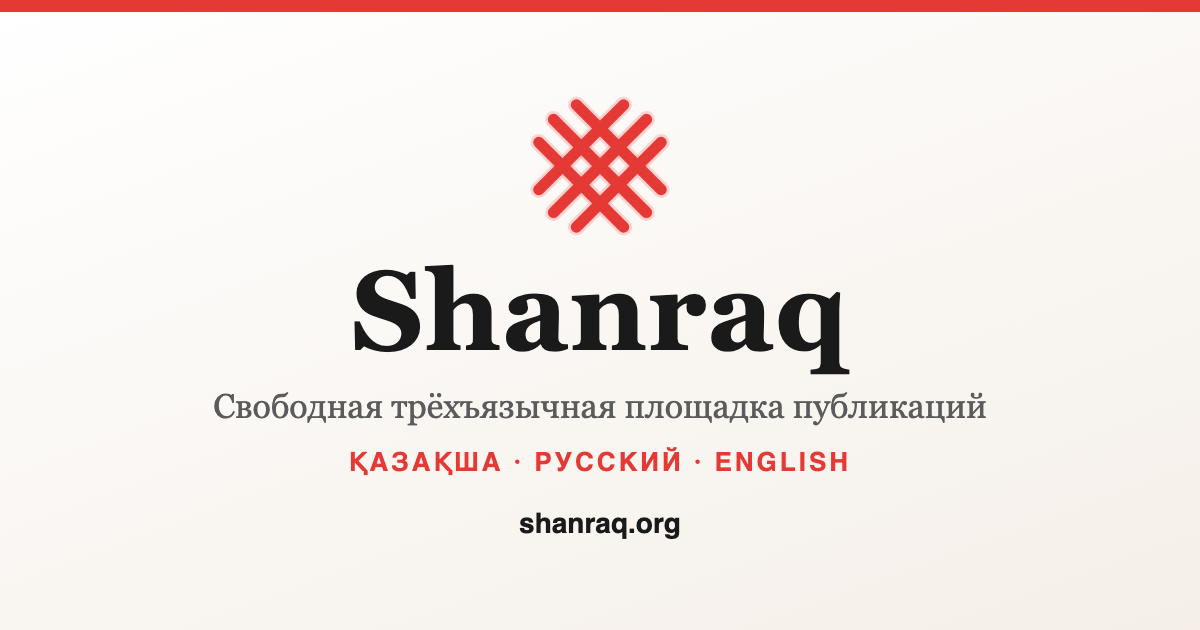
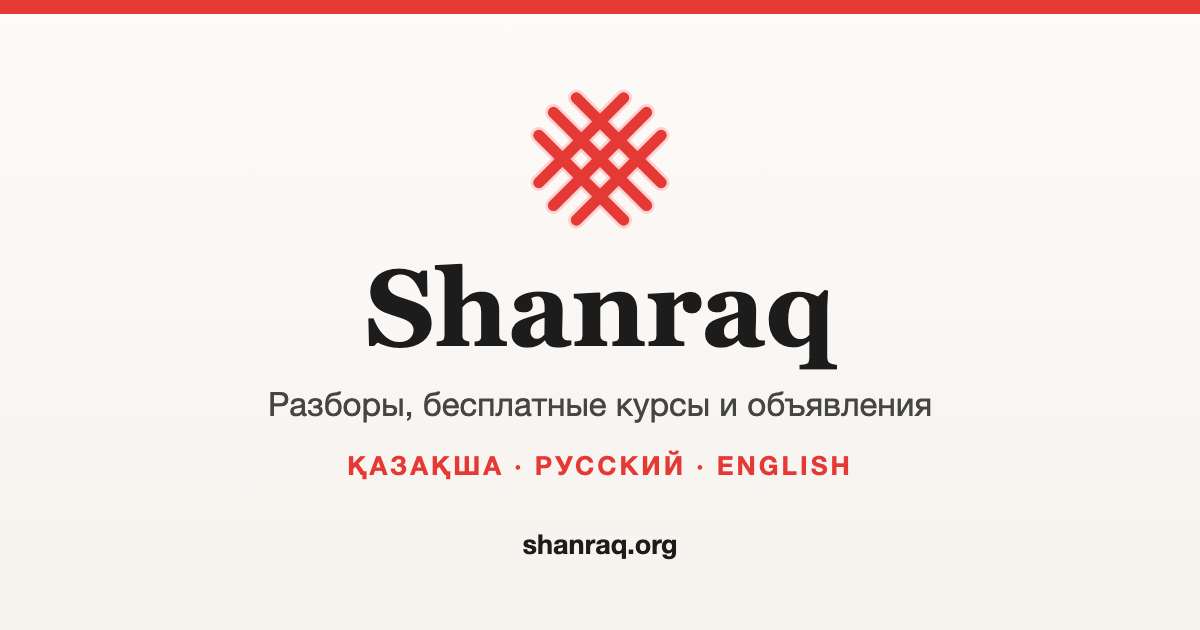
Give the social card the same sentence as the site, and a source
The picture Telegram and LinkedIn show for a shared link still called the site
"a trilingual publishing platform" — the tagline it was given a year ago, before
the courses existed. It had no source file, so nobody could edit it: the card
was a PNG somebody rendered once.

The page it is rendered from now lives in tools/brand/og-cover.html with the
command in a comment, and the card says what the home page says.

diff --git a/tools/brand/og-cover.html b/tools/brand/og-cover.html
@@ -1,0 +1,62 @@
+<!-- The social card: what Telegram, Facebook and LinkedIn show when a link to
+     the site is shared. It is a PNG because none of them render SVG, and it
+     lived for a year as a PNG with no source at all -- which is how it came to
+     say "a trilingual publishing platform" long after half the site had become
+     a course.
+
+     Render it after an edit and replace the file the site serves:
+
+       chrome --headless --disable-gpu --hide-scrollbars \
+              --force-device-scale-factor=1 --window-size=1200,630 \
+              --screenshot=web/static/brand/og-cover.png \
+              --user-data-dir=$(mktemp -d) tools/brand/og-cover.html
+
+     The static tree is embedded in the binary (web/static.go), so the app has
+     to be rebuilt for a new card to reach a reader. -->
+<!doctype html>
+<html lang="ru"><head><meta charset="utf-8">
+<style>
+  html,body { margin:0; padding:0; }
+  body { width:1200px; height:630px; overflow:hidden;
+         font-family: -apple-system, "Helvetica Neue", Arial, sans-serif;
+         background: linear-gradient(180deg, #fdfbf9 0%, #f6f2ee 100%); }
+  .bar { height:14px; background:#e53935; }
+  .wrap { height:616px; display:flex; flex-direction:column; align-items:center;
+          justify-content:center; gap:0; }
+  .mark { margin-bottom:18px; }
+  .name { font-family: Georgia, "Times New Roman", serif; font-size:108px; font-weight:700;
+          color:#1c1c1c; letter-spacing:-0.5px; line-height:1; margin:0 0 22px; }
+  .tag { font-size:33px; color:#454545; margin:0 0 26px; }
+  .langs { font-size:26px; font-weight:700; color:#e53935; letter-spacing:3px; margin:0 0 46px; }
+  .dom { font-size:27px; font-weight:700; color:#1c1c1c; }
+</style></head>
+<body>
+  <div class="bar"></div>
+  <div class="wrap">
+    <div class="mark"><svg width="150" height="150" viewBox="0 0 400 400" xmlns="http://www.w3.org/2000/svg">
+  <g fill="none" stroke-linecap="round">
+    <g stroke="#ffadad" stroke-opacity="0.5" stroke-width="45">
+      <line x1="76" y1="76" x2="324" y2="324"/>
+      <line x1="137" y1="37" x2="363" y2="263"/>
+      <line x1="37" y1="137" x2="263" y2="363"/>
+      <line x1="76" y1="324" x2="324" y2="76"/>
+      <line x1="137" y1="363" x2="363" y2="137"/>
+      <line x1="37" y1="263" x2="263" y2="37"/>
+    </g>
+    <g stroke="#e53935" stroke-width="30">
+      <line x1="76" y1="76" x2="324" y2="324"/>
+      <line x1="137" y1="37" x2="363" y2="263"/>
+      <line x1="37" y1="137" x2="263" y2="363"/>
+      <line x1="76" y1="324" x2="324" y2="76"/>
+      <line x1="137" y1="363" x2="363" y2="137"/>
+      <line x1="37" y1="263" x2="263" y2="37"/>
+    </g>
+  </g>
+</svg>
+</div>
+    <div class="name">Shanraq</div>
+    <div class="tag">Разборы, бесплатные курсы и объявления</div>
+    <div class="langs">ҚАЗАҚША · РУССКИЙ · ENGLISH</div>
+    <div class="dom">shanraq.org</div>
+  </div>
+</body></html>
